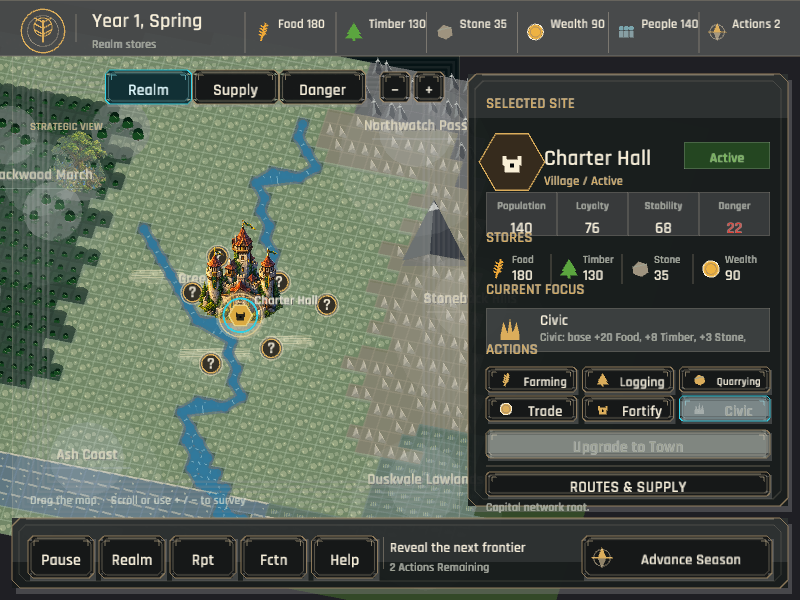
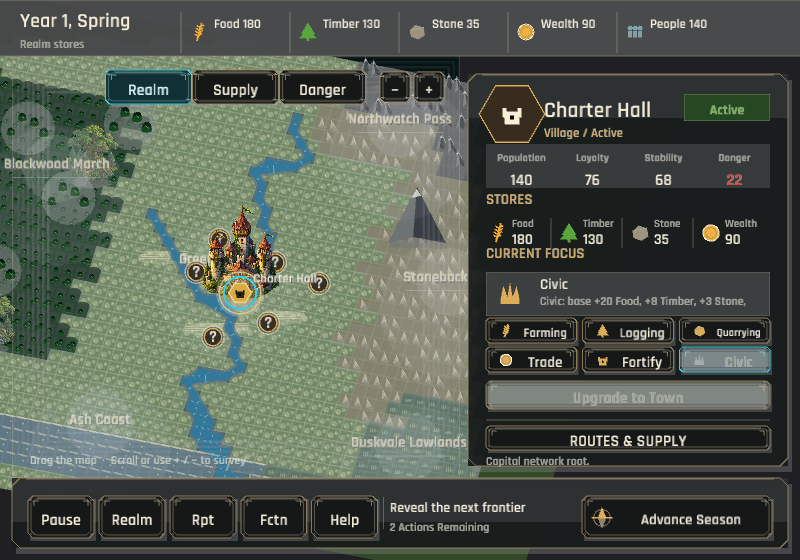
The council gives the frontier more room to speak (gameplay UI cleanup)
Remove duplicate header and inspector labels and decorative borders. Recompose the site inspector and separate metrics from local stores. Preserve action budget and event blockers beside Advance Season.

Validated formatting, strict Clippy, 34 tests including the source-size gate, native captures at 1280x720 and 800x560, browser pointer selection, and default Windows/WebGL preview publishing. Physical touch and pinch remain unverified.

diff --git a/src/ui/panel/settlement.rs b/src/ui/panel/settlement.rs
@@ -85,8 +85,8 @@ pub(super) fn draw_existing_settlement(
 
     let active_issue_count = active_issue_count(ctx, settlement);
     let compact = ctx.ui.logical_width < 1040.0;
-    let stores_label_y = if compact { y + 50.0 } else { y + 48.0 };
-    let stores_grid_y = y + 60.0;
+    let stores_label_y = y + 60.0;
+    let stores_grid_y = y + 72.0;
     crate::ui::section_label(&ctx.data.text("ui.stores"), content.x, stores_label_y);
     if active_issue_count > 0 {
         let issues_rect = Rect::new(content.right() - 112.0, stores_label_y - 16.0, 112.0, 28.0);
@@ -112,8 +112,8 @@ pub(super) fn draw_existing_settlement(
         Rect::new(content.x, stores_grid_y, content.w, 34.0),
     );
 
-    let focus_label_y = if compact { y + 102.0 } else { y + 108.0 };
-    let focus_card_y = if compact { y + 116.0 } else { y + 122.0 };
+    let focus_label_y = if compact { y + 114.0 } else { y + 120.0 };
+    let focus_card_y = if compact { y + 128.0 } else { y + 134.0 };
     crate::ui::section_label(&ctx.data.text("ui.current_focus"), content.x, focus_label_y);
     draw_focus_card(
         ctx,
@@ -121,14 +121,9 @@ pub(super) fn draw_existing_settlement(
         Rect::new(content.x, focus_card_y, content.w, 44.0),
     );
 
-    let actions_label_y = if compact { y + 162.0 } else { y + 178.0 };
-    let focus_grid_y = actions_label_y + 13.0;
+    let actions_label_y = if compact { y + 174.0 } else { y + 190.0 };
+    let focus_grid_y = actions_label_y;
     let focus_layout = focus_button_layout(ctx, content, y, settlement);
-    crate::ui::section_label(
-        &ctx.data.text("ui.settlement_actions"),
-        content.x,
-        actions_label_y,
-    );
     let focus_grid_bottom = draw_focus_buttons(
         ctx,
         interaction,
@@ -160,7 +155,7 @@ pub(super) fn draw_existing_settlement(
     );
 
     let mut next_y = upgrade_rect.bottom() + 10.0;
-    let minimum_next_y = if compact { y + 266.0 } else { y + 282.0 };
+    let minimum_next_y = if compact { y + 278.0 } else { y + 294.0 };
     if next_y < minimum_next_y {
         next_y = minimum_next_y;
     }
@@ -190,18 +185,18 @@ fn focus_layout_fits(
     layout: FocusButtonLayout,
 ) -> bool {
     let actions_label_y = if ctx.ui.logical_width < 1040.0 {
-        y + 162.0
+        y + 174.0
     } else {
-        y + 178.0
+        y + 190.0
     };
-    let focus_grid_y = actions_label_y + 13.0;
+    let focus_grid_y = actions_label_y;
     let focus_grid_bottom =
         layout.grid_bottom(focus_grid_y, ctx.data.settlement_balance.focuses.len());
     let upgrade_bottom = focus_grid_bottom + 9.0 + 28.0;
     let minimum_next_y = if ctx.ui.logical_width < 1040.0 {
-        y + 266.0
+        y + 278.0
     } else {
-        y + 282.0
+        y + 294.0
     };
     let route_y = (upgrade_bottom + 10.0).max(minimum_next_y) + 4.0;
     let route_count = ctx

diff --git a/src/ui.rs b/src/ui.rs
@@ -268,14 +268,8 @@ fn draw_header(ctx: &UiContext<'_>) {
         Color::new(0.01, 0.020, 0.024, 0.42),
     );
 
-    draw_brand(rect);
     let clock = &ctx.session.clock;
-    let clock_x = rect.x
-        + if ctx.ui.logical_width < 1040.0 {
-            92.0
-        } else {
-            96.0
-        };
+    let clock_x = rect.x + 20.0;
     let season = clock.season.label().to_owned();
     let year = clock.year.to_string();
     draw_ui_text_ex(
@@ -338,13 +332,6 @@ fn draw_header(ctx: &UiContext<'_>) {
             style::IconKind::People,
             Color::new(0.48, 0.65, 0.68, 1.0),
         ),
-        (
-            ctx.data.text("ui.actions"),
-            ctx.session.council_actions_remaining,
-            0,
-            style::IconKind::Actions,
-            style::GOLD,
-        ),
     ];
     let compact = ctx.ui.logical_width < 960.0;
     let badge_gap = if compact { 5.0 } else { 9.0 };
@@ -369,27 +356,12 @@ fn draw_header(ctx: &UiContext<'_>) {
             rate: *rate,
             icon: *icon,
             color: *color,
-            show_rate: index != 5,
-            has_rate: index != 5 && ctx.session.last_season_flow.has_report,
+            has_rate: ctx.session.last_season_flow.has_report,
             positive_rate: &positive_rate,
             negative_rate: &negative_rate,
             compact,
         });
     }
-}
-
-fn draw_brand(rect: Rect) {
-    let mark_center = vec2(rect.x + 43.0, rect.y + 31.0);
-    draw_circle_lines(mark_center.x, mark_center.y, 21.0, 1.4, style::GOLD);
-    draw_circle_lines(
-        mark_center.x,
-        mark_center.y,
-        15.0,
-        0.8,
-        Color::new(0.80, 0.62, 0.34, 0.38),
-    );
-    style::draw_icon(style::IconKind::Tree, mark_center, 33.0, style::GOLD);
-    style::draw_vertical_divider(rect.x + 76.0, rect.y + 14.0, rect.h - 28.0);
 }
 
 struct ResourceReadout<'a> {
@@ -399,7 +371,6 @@ struct ResourceReadout<'a> {
     rate: i32,
     icon: style::IconKind,
     color: Color,
-    show_rate: bool,
     has_rate: bool,
     positive_rate: &'a str,
     negative_rate: &'a str,
@@ -414,7 +385,6 @@ fn draw_resource_readout(readout: ResourceReadout<'_>) {
         rate,
         icon,
         color,
-        show_rate,
         has_rate,
         positive_rate,
         negative_rate,
@@ -434,7 +404,7 @@ fn draw_resource_readout(readout: ResourceReadout<'_>) {
         rect.y + if compact { 17.0 } else { 18.0 },
         TextStyle::new(value_size, style::TEXT_BRIGHT).params(),
     );
-    if !show_rate || !has_rate {
+    if !has_rate {
         return;
     }
     let rate_text = if rate >= 0 {

diff --git a/src/ui/panel.rs b/src/ui/panel.rs
@@ -24,12 +24,7 @@ pub(super) fn draw_side_panel(
     style::draw_panel(rect);
 
     let content = rect.inset(18.0);
-    style::draw_panel_title(
-        &ctx.data.text("ui.selected_site"),
-        content.x,
-        content.y + 16.0,
-    );
-    let mut y = content.y + 50.0;
+    let mut y = content.y + 2.0;
     y = site::draw_selected_site(ctx, content, y);
     y = draw_settlement_section(ctx, tooltip, input_enabled, actions, content, y + 2.0);
     routes::draw_route_section(
@@ -55,15 +50,7 @@ fn draw_settlement_section(
         return y;
     };
     if ctx.session.site_knowledge(&site.id) != SiteKnowledge::Known {
-        super::section_label(&ctx.data.text("ui.scouting"), content.x, y);
-        return site::draw_scout_action(
-            ctx,
-            ctx.pointer,
-            input_enabled,
-            actions,
-            content,
-            y + 14.0,
-        );
+        return site::draw_scout_action(ctx, ctx.pointer, input_enabled, actions, content, y);
     }
 
     if let Some(settlement) = ctx.session.settlement_at_site(&site.id) {
@@ -75,11 +62,9 @@ fn draw_settlement_section(
         };
         settlement::draw_existing_settlement(ctx, &mut interaction, content, y, settlement)
     } else if site.category == SiteCategory::Independent {
-        super::section_label(&ctx.data.text("ui.site_decisions"), content.x, y);
-        site::draw_independent_actions(ctx, ctx.pointer, input_enabled, actions, content, y + 14.0)
+        site::draw_independent_actions(ctx, ctx.pointer, input_enabled, actions, content, y)
     } else if site.category == SiteCategory::Settlement {
-        super::section_label(&ctx.data.text("ui.site_decisions"), content.x, y);
-        site::draw_found_camp_action(ctx, ctx.pointer, input_enabled, actions, content, y + 14.0)
+        site::draw_found_camp_action(ctx, ctx.pointer, input_enabled, actions, content, y)
     } else {
         y
     }

diff --git a/src/ui/panel/readouts.rs b/src/ui/panel/readouts.rs
@@ -19,8 +19,7 @@ pub(super) fn draw_metric_grid(
         let rect = Rect::new(x + index as f32 * cell_w, y, cell_w, 44.0);
         draw_surface(
             rect,
-            &SurfaceStyle::new(Color::new(0.020, 0.034, 0.036, 0.76))
-                .with_border(1.0, Color::new(0.58, 0.45, 0.25, 0.22)),
+            &SurfaceStyle::new(Color::new(0.020, 0.034, 0.036, 0.76)),
         );
         draw_text_centered_in_box_ex(
             label,

diff --git a/src/ui/map.rs b/src/ui/map.rs
@@ -85,12 +85,6 @@ fn draw_map_controls(
 
 fn draw_map_caption(ctx: &UiContext<'_>, panel_rect: Rect) {
     draw_ui_text_ex(
-        &ctx.data.text("ui.strategic_view"),
-        panel_rect.x + 18.0,
-        panel_rect.y + 74.0,
-        TextStyle::new(11.0, Color::new(0.86, 0.72, 0.42, 0.82)).params(),
-    );
-    draw_ui_text_ex(
         &ctx.data.text("ui.drag_map"),
         panel_rect.x + 18.0,
         panel_rect.bottom() - 14.0,

diff --git a/src/ui/style.rs b/src/ui/style.rs
@@ -52,7 +52,6 @@ pub(super) fn draw_panel(rect: Rect) {
         Color::new(0.018, 0.032, 0.036, 0.82),
     );
     draw_chamfer_lines(rect, GOLD_DIM, 1.0);
-    draw_chamfer_lines(rect.inset(7.0), Color::new(0.88, 0.74, 0.48, 0.08), 1.0);
     draw_line(
         rect.x + 14.0,
         rect.y + 1.0,

diff --git a/TODO.md b/TODO.md
@@ -1,12 +1,7 @@
 # TODO — Realmseed
 
-UI subtraction pass, 2026-09-23. Audit: [element classifications](docs/ui-subtraction-audit.md).
-Only remaining cleanup work is listed; no UI changes were implemented by this pass.
 
-- [ ] HUD/footer: remove the header Actions readout; keep the count beside Advance Season, where spending versus advancing is decided, including the pending-event warning.
-- [ ] Map: remove the non-interactive crest and STRATEGIC VIEW caption; neither communicates a decision or state. Keep branding on the title screen.
 - [ ] Map/footer: make drag/zoom prose and routine advisor instructions dismissible first-use guidance, reopened through Help; remove the duplicate counsel section from Realm summary. Preserve event blockers and actionable warnings.
-- [ ] Selected-site inspector: remove SELECTED SITE, SCOUTING, SITE DECISIONS, and ACTIONS headings where the named site and labeled controls already explain the content; retain labels distinguishing local stores and focus.
 - [ ] Selected-site inspector: remove the settlement status badge that repeats the tier/status subtitle and the rumor's repeated known-status/scout-reason text; retain status once and scouting costs or blockers beside Scout.
 - [ ] Known unowned/independent site inspector: move descriptive flavour paragraphs to tap/click details; retain ownership, terrain/traits, local need, and any facts affecting founding, trade, or integration beside their decisions.
 - [ ] Settlement inspector: collapse the six focus buttons behind a visible Change Focus control; keep the current focus once, and show base yields and notes with the expanded comparison instead of repeating the name in the card, summary, and selected button.
@@ -21,4 +16,3 @@ Only remaining cleanup work is listed; no UI changes were implemented by this pa
 - [ ] Campaign Planning: hide completed project and activated institution action buttons from available choices; retain achieved effects in an expandable completed section. Keep locked future choices inspectable for costs and unlock requirements.
 - [ ] Chronicle: hide Previous, Next, and Page 1 of 1 when only one page exists; retain navigation for multiple pages, entry dates/content, Open site affordances, and Close.
 - [ ] Endgame: merge facts repeated in the score heading, summary paragraph, and details block; keep score/ending once and one complete account of identity, settlement, years, defining event, ambition, and arcs, plus Restart and Title.
-- [ ] Gameplay panels/readouts: remove the inner decorative panel outline and individual metric-cell borders; they add no grouping beyond the existing panel and labeled row. Retain modal boundaries, actionable control outlines, selection, and warning cues.

diff --git a/README.md b/README.md
@@ -84,7 +84,10 @@ or settlement deserves the next council action. The illustrated map is the
 dominant focus; the selected-site inspector is the supporting decision area;
 quiet utilities stay in the footer. The primary action is contextual to the
 selected site, while `Advance Season` is separated as the season transition
-and shows the remaining action budget beside it.
+and shows the remaining action budget beside it. The header reserves its
+readouts for realm resources, population, and season; the named site leads
+the inspector without repeated section headings. Panel boundaries and
+action outlines provide grouping without inner decorative frames.
 
 The Realm summary is available from the footer when realm-wide stability,
 loyalty, supply, or danger needs review. Detailed seasonal results belong in
